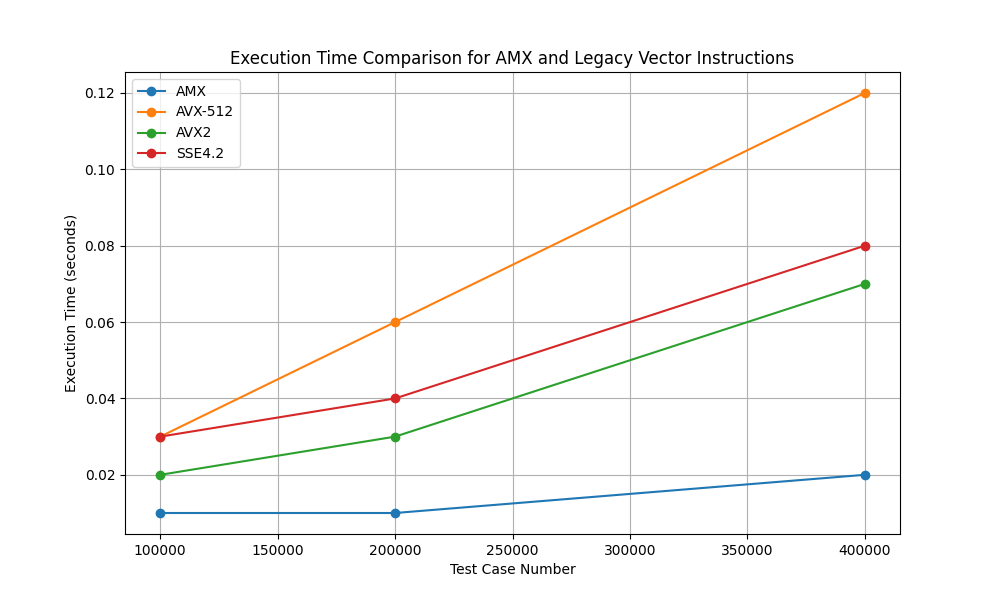
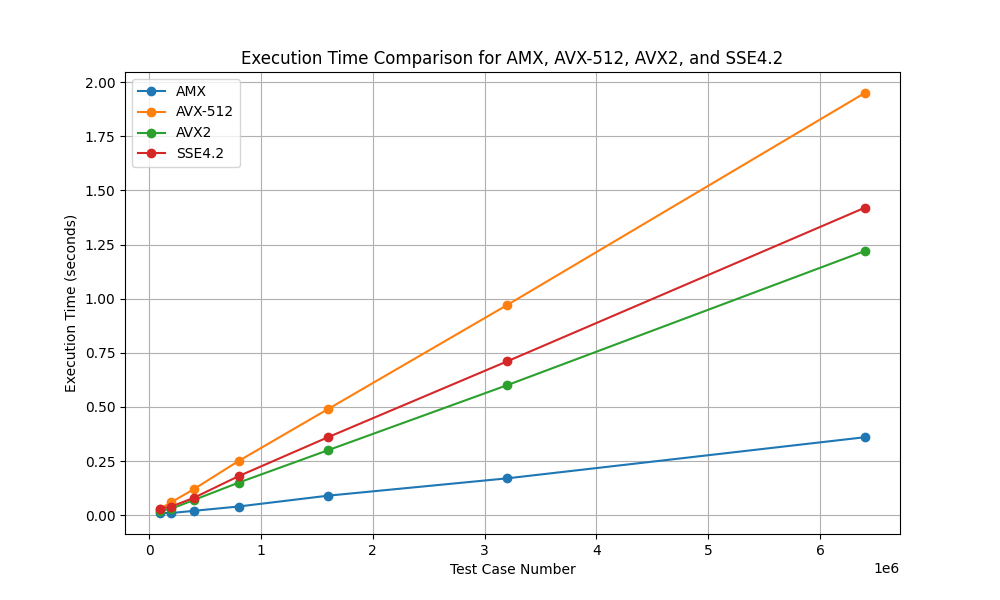
グラフ作成

diff --git a/amx-t20/t20_profile.py b/amx-t20/t20_profile.py
@@ -5,13 +5,13 @@ import shutil
 
 # Define test cases
 test_cases = [
-    100000,
-    200000,
-    400000,
+    # 100000,
+    # 200000,
+    # 400000,
     # 800000,
     # 1600000,
     # 3200000,
-    # 6400000,
+    6400000,
     # 12800000,
 ]
 
